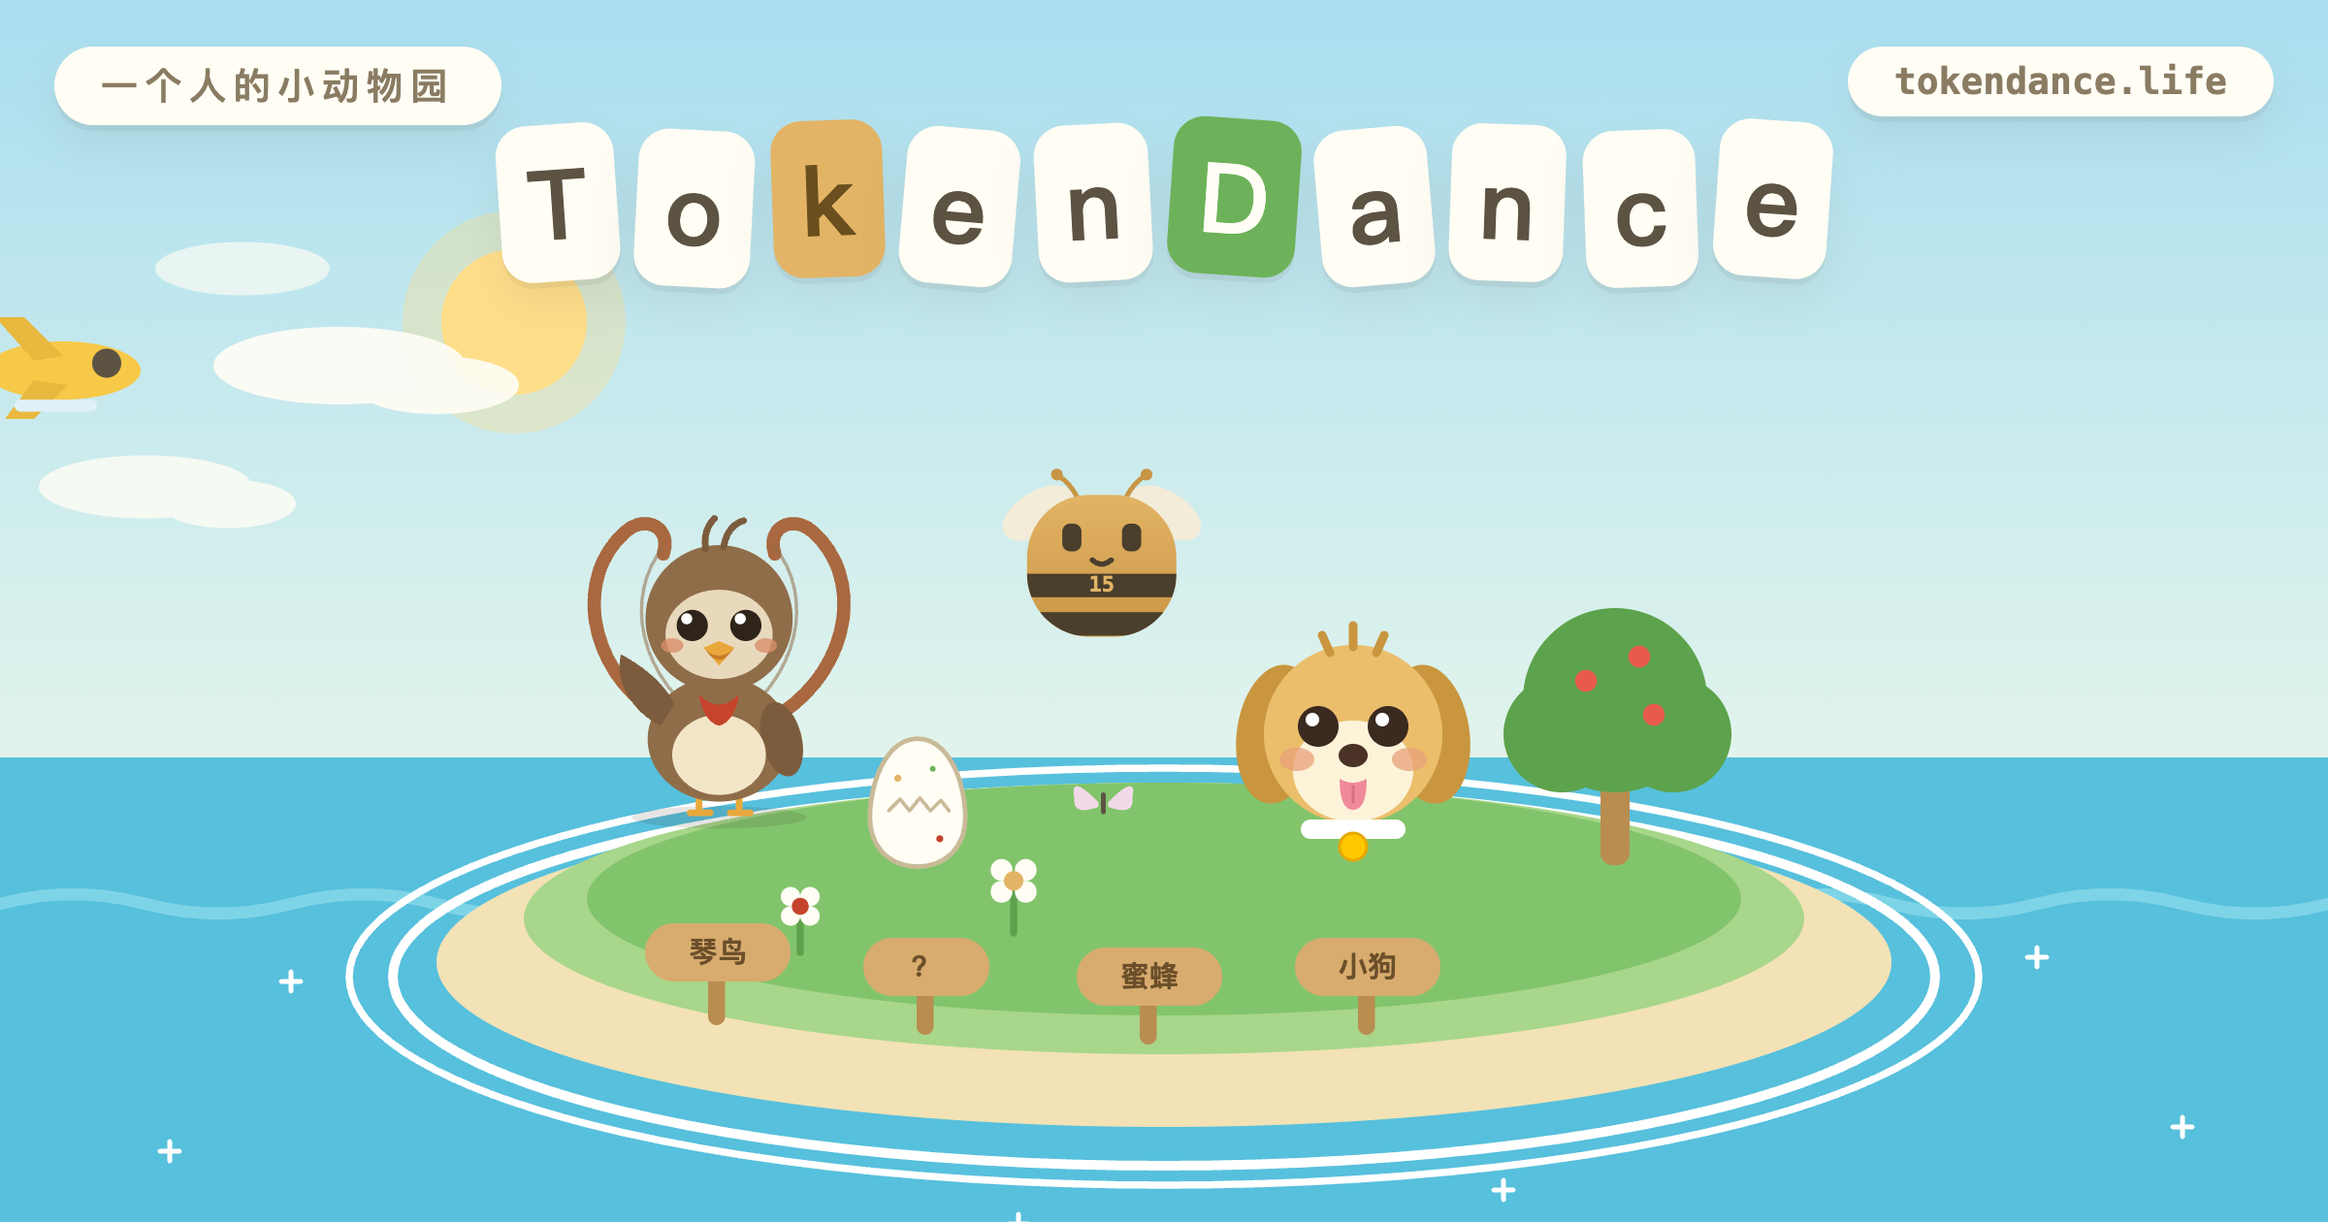
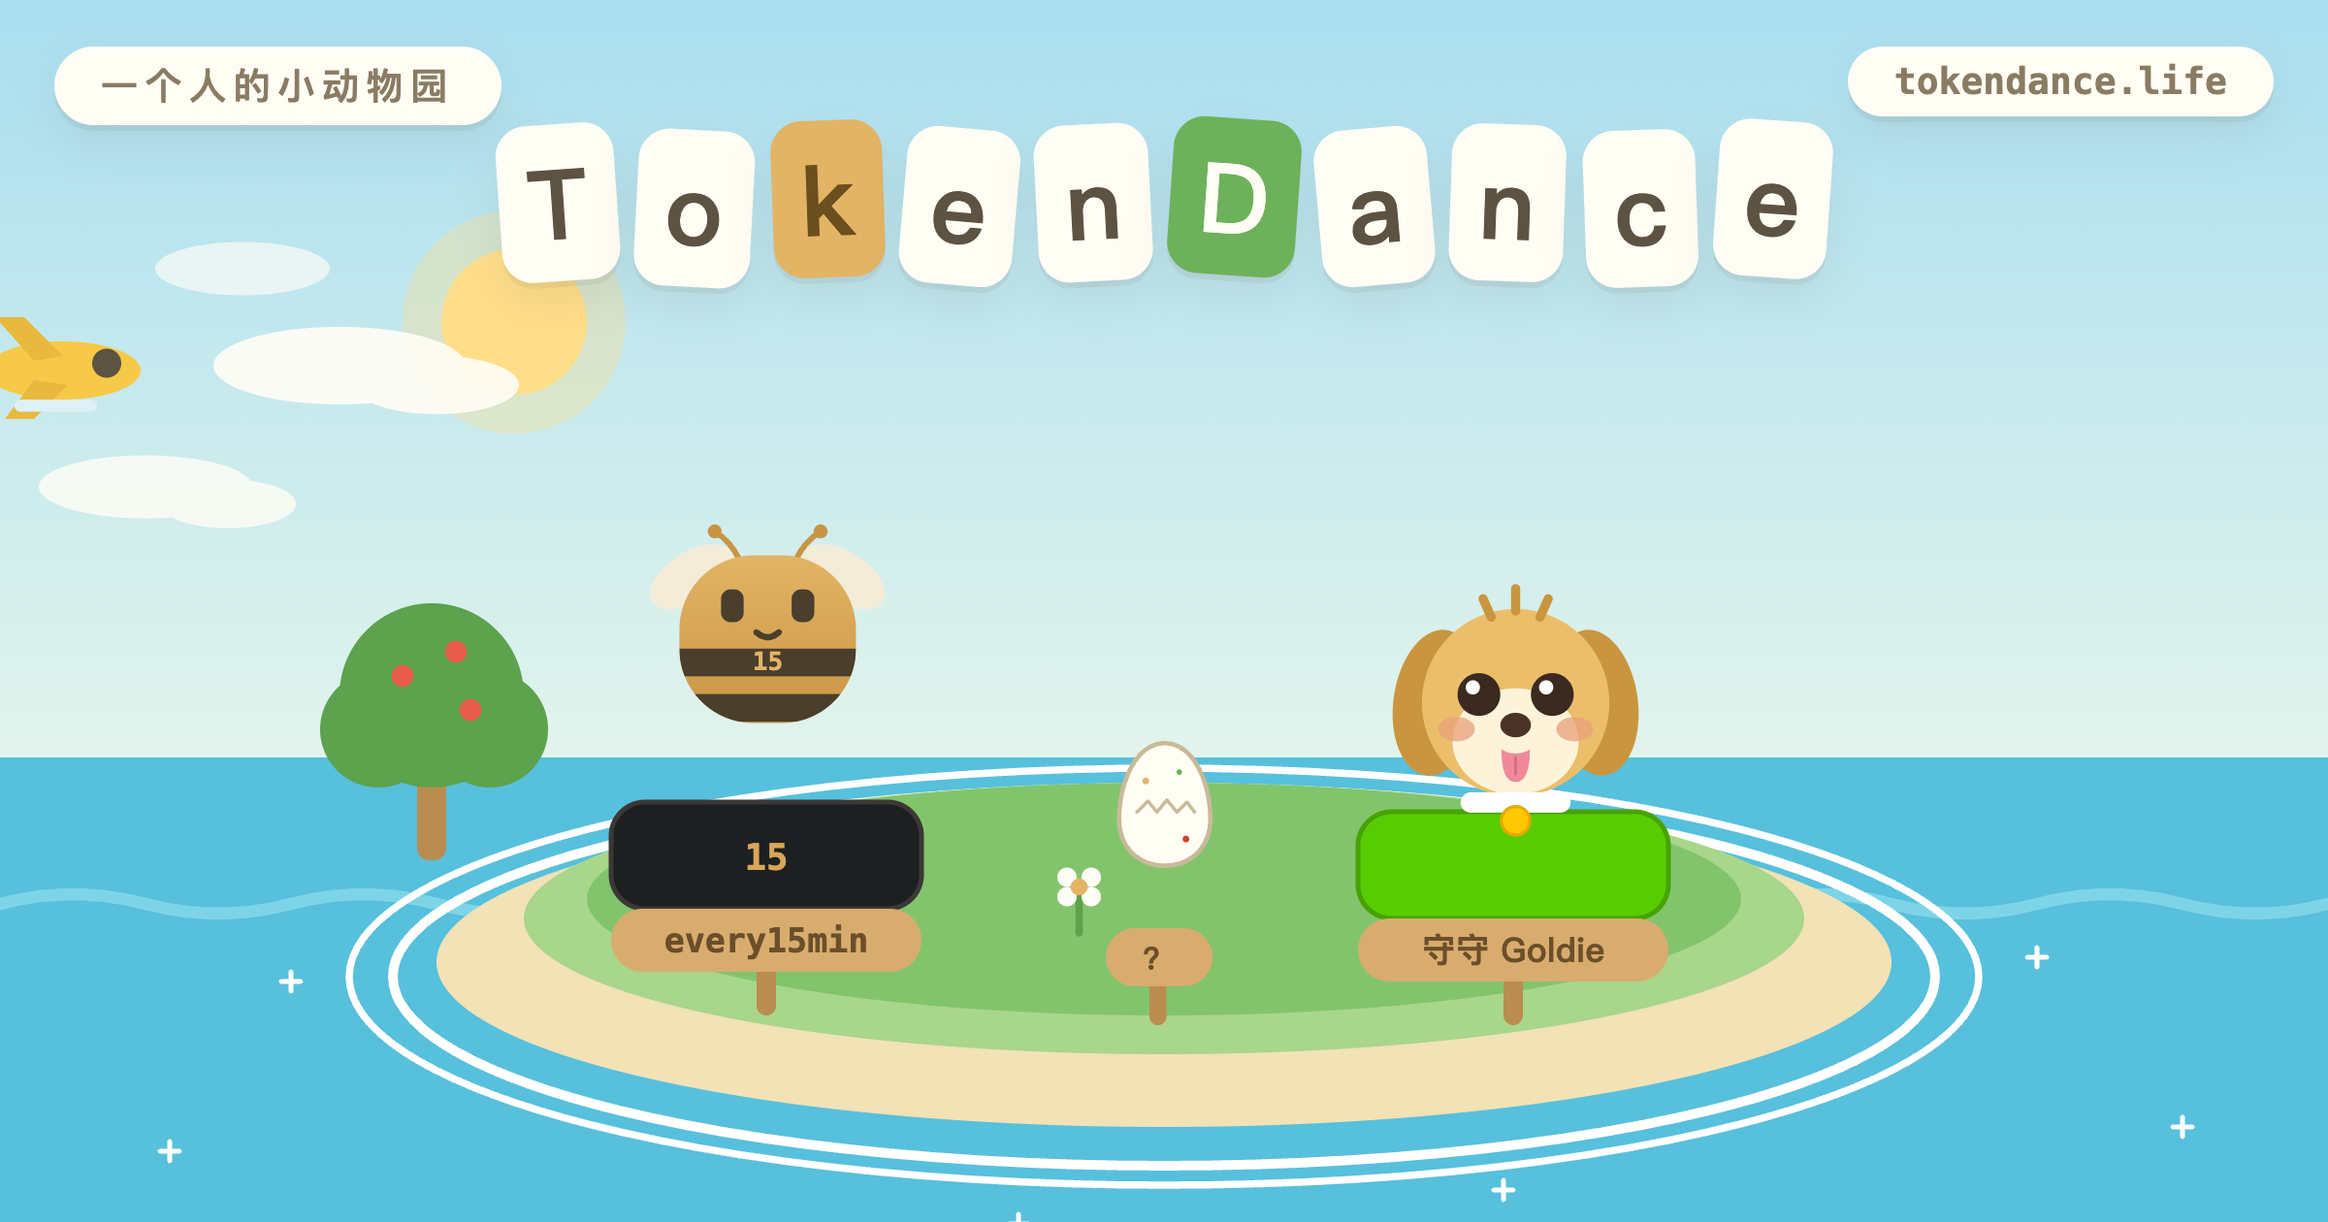
岛上住户与真实 App 图标对齐：图标同款地台 + App 名木牌，精简杂物；名册头像换图标样式

Changed region(s): [[0.125, 0.4024, 0.75, 0.8667], [0.4062, 0.3714, 0.5312, 0.5262]]

diff --git a/index.html b/index.html
@@ -156,7 +156,6 @@ svg{max-width:100%}
   .tokens{gap:5px}
   .tok{font-size:clamp(15px,4.4vw,21px);padding:3px 7px 1px;border-radius:9px}
 }
-@media (max-width:640px){.stakes{display:none}}
 
 /* ============ 环境动效（全部缓慢、有编排） ============ */
 @media (prefers-reduced-motion: no-preference){
@@ -258,6 +257,7 @@ h2 svg{flex:0 0 auto}
   width:58px;height:58px;border-radius:50%;overflow:hidden;flex:0 0 auto;
   display:flex;align-items:center;justify-content:center;
 }
+.p-face.tile{border-radius:16px}
 .p-face svg{width:100%;height:100%;display:block}
 .p-name{font-size:17px;font-weight:800}
 .p-name .latin{display:block;font-family:ui-monospace,Menlo,Consolas,monospace;font-size:12px;color:var(--brown-soft);font-weight:600;letter-spacing:.02em}
@@ -302,7 +302,7 @@ footer .leaf{display:inline-block;vertical-align:-3px;margin-right:6px}
   </h1>
 
   <svg class="vista" viewBox="0 0 960 540" preserveAspectRatio="xMidYMid slice"
-       role="img" aria-label="海中央的小岛：琴鸟、蛋、蜜蜂和小狗住在上面">
+       role="img" aria-label="海中央的小岛：蜜蜂、金毛和一颗蛋，各自守着自己的应用">
     <!-- 太阳 / 月亮 / 星星 -->
     <g class="sun">
       <circle cx="212" cy="132" r="46" fill="var(--sun)" opacity=".35"/>
@@ -353,12 +353,10 @@ footer .leaf{display:inline-block;vertical-align:-3px;margin-right:6px}
 
     <!-- 海 -->
     <rect x="0" y="336" width="960" height="204" fill="var(--ocean)"/>
-    <!-- 远处海浪 -->
     <g class="wave-a">
       <path d="M-240 372 Q-210 364 -180 372 T-120 372 T-60 372 T0 372 T60 372 T120 372 T180 372 T240 372 T300 372 T360 372 T420 372 T480 372 T540 372 T600 372 T660 372 T720 372 T780 372 T840 372 T900 372 T960 372 T1020 372 T1080 372 T1140 372"
             fill="none" stroke="var(--wave)" stroke-width="5" stroke-linecap="round" opacity=".7"/>
     </g>
-    <!-- 海面闪光 -->
     <g stroke="var(--foam)" stroke-width="2" stroke-linecap="round">
       <path class="twinkle" style="--d:0s"    d="M120 400 v8 M116 404 h8"/>
       <path class="twinkle" style="--d:1.1s"  d="M840 390 v8 M836 394 h8"/>
@@ -378,65 +376,53 @@ footer .leaf{display:inline-block;vertical-align:-3px;margin-right:6px}
       <ellipse cx="480" cy="378" rx="264" ry="56" fill="var(--grass-light)"/>
       <ellipse cx="480" cy="370" rx="238" ry="48" fill="var(--grass)"/>
 
-      <!-- 果树 -->
+      <!-- 果树（左侧） -->
       <g class="swayflower s2">
-        <rect x="660" y="318" width="12" height="38" rx="5" fill="#B98D4F"/>
-        <circle cx="666" cy="288" r="38" fill="#5DA24C"/>
-        <circle cx="644" cy="302" r="24" fill="#5DA24C"/>
-        <circle cx="690" cy="302" r="24" fill="#5DA24C"/>
-        <circle cx="654" cy="280" r="4.5" fill="#E85B4B"/>
-        <circle cx="676" cy="270" r="4.5" fill="#E85B4B"/>
-        <circle cx="682" cy="294" r="4.5" fill="#E85B4B"/>
+        <rect x="172" y="316" width="12" height="38" rx="5" fill="#B98D4F"/>
+        <circle cx="178" cy="286" r="38" fill="#5DA24C"/>
+        <circle cx="156" cy="300" r="24" fill="#5DA24C"/>
+        <circle cx="202" cy="300" r="24" fill="#5DA24C"/>
+        <circle cx="166" cy="278" r="4.5" fill="#E85B4B"/>
+        <circle cx="188" cy="268" r="4.5" fill="#E85B4B"/>
+        <circle cx="194" cy="292" r="4.5" fill="#E85B4B"/>
       </g>
 
-      <!-- 琴鸟 -->
-      <g transform="translate(222,190) scale(0.46)">
-        <g class="breathe">
-          <ellipse cx="162" cy="318" rx="78" ry="10" fill="#2E241A" opacity=".12"/>
-          <path d="M118 232 C44 192 30 104 78 62 C96 46 120 58 112 82" fill="none" stroke="#A9683F" stroke-width="12" stroke-linecap="round"/>
-          <path d="M206 232 C280 192 294 104 246 62 C228 46 204 58 212 82" fill="none" stroke="#A9683F" stroke-width="12" stroke-linecap="round"/>
-          <g fill="none" stroke="#8F6D49" stroke-width="3" stroke-linecap="round" opacity=".55">
-            <path d="M136 222 C84 176 82 112 112 76"/>
-            <path d="M150 216 C120 168 122 110 146 78"/>
-            <path d="M174 216 C204 168 202 110 178 78"/>
-            <path d="M188 222 C240 176 242 112 212 76"/>
+      <!-- every15min：蜜蜂 + 它的终端色地台（同 App 图标） -->
+      <rect x="252" y="330" width="128" height="44" rx="14" fill="#1d2021"/>
+      <rect x="252" y="330" width="128" height="44" rx="14" fill="none" stroke="#3c3836" stroke-width="2"/>
+      <text x="316" y="358" text-anchor="middle" font-size="15" font-weight="700"
+            font-family="Menlo,Consolas,monospace" fill="#d8a657">15</text>
+      <g class="bee-bob">
+        <g transform="translate(250,196) scale(0.26)">
+          <defs>
+            <linearGradient id="beeg" x1="0" y1="0" x2="0" y2="1">
+              <stop offset="0" stop-color="#e3b465"/>
+              <stop offset="1" stop-color="#c89544"/>
+            </linearGradient>
+            <clipPath id="beebody"><rect x="116" y="124" width="280" height="266" rx="118"/></clipPath>
+          </defs>
+          <ellipse cx="136" cy="158" rx="74" ry="40" fill="#F3ECD8" transform="rotate(-32 136 158)"/>
+          <ellipse cx="376" cy="158" rx="74" ry="40" fill="#F3ECD8" transform="rotate(32 376 158)"/>
+          <path d="M212 132 q-16 -32 -38 -44" fill="none" stroke="#c89544" stroke-width="9" stroke-linecap="round"/>
+          <circle cx="172" cy="86" r="11" fill="#c89544"/>
+          <path d="M300 132 q16 -32 38 -44" fill="none" stroke="#c89544" stroke-width="9" stroke-linecap="round"/>
+          <circle cx="340" cy="86" r="11" fill="#c89544"/>
+          <rect x="116" y="124" width="280" height="266" rx="118" fill="url(#beeg)"/>
+          <g clip-path="url(#beebody)">
+            <rect x="116" y="272" width="280" height="44" fill="#4A3E2C"/>
+            <rect x="116" y="344" width="280" height="44" fill="#4A3E2C"/>
           </g>
-          <path d="M144 296 L144 314 M136 314 L154 314" stroke="#E9A83B" stroke-width="6" stroke-linecap="round" fill="none"/>
-          <path d="M180 296 L180 314 M172 314 L190 314" stroke="#E9A83B" stroke-width="6" stroke-linecap="round" fill="none"/>
-          <ellipse cx="162" cy="248" rx="64" ry="56" fill="#8F6D49"/>
-          <ellipse cx="218" cy="248" rx="18" ry="34" fill="#7C5C3D" transform="rotate(-14 218 248)"/>
-          <path d="M110 236 C84 224 68 196 74 172 C90 180 112 196 122 216 Z" fill="#7C5C3D"/>
-          <ellipse cx="162" cy="262" rx="42" ry="36" fill="#F3E5C8"/>
-          <path d="M144 208 Q162 226 180 208 Q176 232 162 236 Q148 232 144 208 Z" fill="#C6432C"/>
-          <circle cx="162" cy="140" r="66" fill="#8F6D49"/>
-          <ellipse cx="162" cy="154" rx="48" ry="40" fill="#E9D9BC"/>
-          <path d="M150 78 C148 64 152 56 158 50" fill="none" stroke="#7C5C3D" stroke-width="6" stroke-linecap="round"/>
-          <path d="M166 76 C168 62 176 54 184 52" fill="none" stroke="#7C5C3D" stroke-width="6" stroke-linecap="round"/>
-          <circle cx="138" cy="146" r="14" fill="#2E241A"/>
-          <circle cx="186" cy="146" r="14" fill="#2E241A"/>
-          <circle cx="133" cy="140" r="5" fill="#FFF"/>
-          <circle cx="181" cy="140" r="5" fill="#FFF"/>
-          <ellipse cx="120" cy="164" rx="10" ry="6.5" fill="#D98E6B" opacity=".8"/>
-          <ellipse cx="204" cy="164" rx="10" ry="6.5" fill="#D98E6B" opacity=".8"/>
-          <path d="M148 166 L162 160 L176 166 L162 182 Z" fill="#E9A83B"/>
-          <path d="M150 168 Q162 178 174 168 Q162 186 150 168 Z" fill="#C97B28"/>
+          <rect x="182" y="178" width="36" height="52" rx="15" fill="#4A3E2C"/>
+          <rect x="294" y="178" width="36" height="52" rx="15" fill="#4A3E2C"/>
+          <path d="M238 246 q18 16 36 0" fill="none" stroke="#4A3E2C" stroke-width="10" stroke-linecap="round"/>
+          <text x="256" y="306" font-family="Menlo,Consolas,monospace" font-size="40" font-weight="700" text-anchor="middle" fill="#e3b465">15</text>
         </g>
       </g>
 
-      <!-- 蛋 -->
-      <g transform="translate(352,300) scale(0.48)">
-        <g class="egg-rock">
-          <path d="M55 8 C28 8 14 46 14 76 C14 102 32 118 55 118 C78 118 96 102 96 76 C96 46 82 8 55 8 Z"
-                fill="#FFFDF4" stroke="#C9BA98" stroke-width="4"/>
-          <path d="M30 70 L40 60 L48 70 L57 59 L66 70 L75 61 L82 70" fill="none" stroke="#C9BA98" stroke-width="3" stroke-linecap="round" stroke-linejoin="round"/>
-          <circle cx="38" cy="42" r="3" fill="#E3B465"/>
-          <circle cx="68" cy="34" r="2.5" fill="#6DB25A"/>
-          <circle cx="74" cy="94" r="3" fill="#C6432C"/>
-        </g>
-      </g>
-
-      <!-- 小狗 -->
-      <g transform="translate(498,242) scale(0.4)">
+      <!-- 守守 Goldie：金毛 + 它的绿色地台（同 App 图标） -->
+      <rect x="560" y="334" width="128" height="44" rx="14" fill="#58CC02"/>
+      <rect x="560" y="334" width="128" height="44" rx="14" fill="none" stroke="#46A302" stroke-width="2"/>
+      <g transform="translate(562,226) scale(0.42)">
         <g class="breathe b2">
           <ellipse cx="72" cy="150" rx="42" ry="72" fill="#C9963F" transform="rotate(8 72 150)"/>
           <ellipse cx="228" cy="150" rx="42" ry="72" fill="#C9963F" transform="rotate(-8 228 150)"/>
@@ -459,74 +445,40 @@ footer .leaf{display:inline-block;vertical-align:-3px;margin-right:6px}
         </g>
       </g>
 
+      <!-- 蛋（孵着呢） -->
+      <g transform="translate(455,302) scale(0.46)">
+        <g class="egg-rock">
+          <path d="M55 8 C28 8 14 46 14 76 C14 102 32 118 55 118 C78 118 96 102 96 76 C96 46 82 8 55 8 Z"
+                fill="#FFFDF4" stroke="#C9BA98" stroke-width="4"/>
+          <path d="M30 70 L40 60 L48 70 L57 59 L66 70 L75 61 L82 70" fill="none" stroke="#C9BA98" stroke-width="3" stroke-linecap="round" stroke-linejoin="round"/>
+          <circle cx="38" cy="42" r="3" fill="#E3B465"/>
+          <circle cx="68" cy="34" r="2.5" fill="#6DB25A"/>
+          <circle cx="74" cy="94" r="3" fill="#C6432C"/>
+        </g>
+      </g>
+
       <!-- 花 -->
       <g class="swayflower">
-        <line x1="418" y1="384" x2="418" y2="364" stroke="#5FA04B" stroke-width="3" stroke-linecap="round"/>
-        <circle cx="413" cy="358" r="4.5" fill="#FFFDF4"/><circle cx="423" cy="358" r="4.5" fill="#FFFDF4"/>
-        <circle cx="413" cy="367" r="4.5" fill="#FFFDF4"/><circle cx="423" cy="367" r="4.5" fill="#FFFDF4"/>
-        <circle cx="418" cy="362.5" r="4" fill="#E3B465"/>
-      </g>
-      <g class="swayflower s2">
-        <line x1="330" y1="392" x2="330" y2="374" stroke="#5FA04B" stroke-width="3" stroke-linecap="round"/>
-        <circle cx="326" cy="369" r="4" fill="#FFFDF4"/><circle cx="334" cy="369" r="4" fill="#FFFDF4"/>
-        <circle cx="326" cy="377" r="4" fill="#FFFDF4"/><circle cx="334" cy="377" r="4" fill="#FFFDF4"/>
-        <circle cx="330" cy="373" r="3.5" fill="#C6432C"/>
+        <line x1="445" y1="384" x2="445" y2="366" stroke="#5FA04B" stroke-width="3" stroke-linecap="round"/>
+        <circle cx="440" cy="361" r="4" fill="#FFFDF4"/><circle cx="450" cy="361" r="4" fill="#FFFDF4"/>
+        <circle cx="440" cy="369" r="4" fill="#FFFDF4"/><circle cx="450" cy="369" r="4" fill="#FFFDF4"/>
+        <circle cx="445" cy="365" r="3.5" fill="#E3B465"/>
       </g>
 
-      <!-- 名字木牌 -->
-      <g class="stakes" font-size="12" font-weight="800" fill="#6B4F2A" text-anchor="middle"
+      <!-- 名字木牌：直接写 App 名 -->
+      <g class="stakes" font-weight="800" fill="#6B4F2A" text-anchor="middle"
          font-family="ui-rounded,-apple-system,'PingFang SC',sans-serif">
-        <rect x="292" y="398" width="7" height="24" rx="3.5" fill="#B98D4F"/>
-        <rect x="266" y="380" width="60" height="24" rx="12" fill="#D8AC6E"/>
-        <text x="296" y="396">琴鸟</text>
-        <rect x="378" y="404" width="7" height="22" rx="3.5" fill="#B98D4F"/>
-        <rect x="356" y="386" width="52" height="24" rx="12" fill="#D8AC6E"/>
-        <text x="382" y="402">？</text>
-        <rect x="470" y="408" width="7" height="22" rx="3.5" fill="#B98D4F"/>
-        <rect x="444" y="390" width="60" height="24" rx="12" fill="#D8AC6E"/>
-        <text x="474" y="406">蜜蜂</text>
-        <rect x="560" y="404" width="7" height="22" rx="3.5" fill="#B98D4F"/>
-        <rect x="534" y="386" width="60" height="24" rx="12" fill="#D8AC6E"/>
-        <text x="564" y="402">金毛</text>
-      </g>
-
-      <!-- 蝴蝶 -->
-      <g class="flutter">
-        <g transform="translate(455,330)">
-          <path class="flap fl" d="M-2 0 Q-14 -12 -12 -2 Q-13 6 -2 2 Z" fill="#F2D9E8"/>
-          <path class="flap fr" d="M2 0 Q14 -12 12 -2 Q13 6 2 2 Z" fill="#F2D9E8"/>
-          <line x1="0" y1="-3" x2="0" y2="4" stroke="#5D5343" stroke-width="2" stroke-linecap="round"/>
-        </g>
+        <rect x="312" y="392" width="8" height="26" rx="4" fill="#B98D4F"/>
+        <rect x="252" y="374" width="128" height="26" rx="13" fill="#D8AC6E"/>
+        <text x="316" y="392" font-size="14" font-family="Menlo,Consolas,monospace">every15min</text>
+        <rect x="620" y="396" width="8" height="26" rx="4" fill="#B98D4F"/>
+        <rect x="560" y="378" width="128" height="26" rx="13" fill="#D8AC6E"/>
+        <text x="624" y="396" font-size="14">守守 Goldie</text>
+        <rect x="474" y="400" width="7" height="22" rx="3.5" fill="#B98D4F"/>
+        <rect x="456" y="382" width="44" height="24" rx="12" fill="#D8AC6E"/>
+        <text x="478" y="399" font-size="13">？</text>
       </g>
     </g>
-
-    <!-- 蜜蜂在岛上空巡逻 -->
-    <g class="bee-sway"><g class="bee-bob">
-      <g transform="translate(398,176) scale(0.22)">
-        <defs>
-          <linearGradient id="beeg" x1="0" y1="0" x2="0" y2="1">
-            <stop offset="0" stop-color="#e3b465"/>
-            <stop offset="1" stop-color="#c89544"/>
-          </linearGradient>
-          <clipPath id="beebody"><rect x="116" y="124" width="280" height="266" rx="118"/></clipPath>
-        </defs>
-        <ellipse cx="136" cy="158" rx="74" ry="40" fill="#F3ECD8" transform="rotate(-32 136 158)"/>
-        <ellipse cx="376" cy="158" rx="74" ry="40" fill="#F3ECD8" transform="rotate(32 376 158)"/>
-        <path d="M212 132 q-16 -32 -38 -44" fill="none" stroke="#c89544" stroke-width="9" stroke-linecap="round"/>
-        <circle cx="172" cy="86" r="11" fill="#c89544"/>
-        <path d="M300 132 q16 -32 38 -44" fill="none" stroke="#c89544" stroke-width="9" stroke-linecap="round"/>
-        <circle cx="340" cy="86" r="11" fill="#c89544"/>
-        <rect x="116" y="124" width="280" height="266" rx="118" fill="url(#beeg)"/>
-        <g clip-path="url(#beebody)">
-          <rect x="116" y="272" width="280" height="44" fill="#4A3E2C"/>
-          <rect x="116" y="344" width="280" height="44" fill="#4A3E2C"/>
-        </g>
-        <rect x="182" y="178" width="36" height="52" rx="15" fill="#4A3E2C"/>
-        <rect x="294" y="178" width="36" height="52" rx="15" fill="#4A3E2C"/>
-        <path d="M238 246 q18 16 36 0" fill="none" stroke="#4A3E2C" stroke-width="10" stroke-linecap="round"/>
-        <text x="256" y="306" font-family="Menlo,Consolas,monospace" font-size="40" font-weight="700" text-anchor="middle" fill="#e3b465">15</text>
-      </g>
-    </g></g>
 
     <!-- 岸线过渡到纸面 -->
     <path d="M0 512 Q120 500 240 512 T480 512 T720 512 T960 512 V540 H0 Z" fill="#FBF4E1"/>
@@ -589,7 +541,7 @@ footer .leaf{display:inline-block;vertical-align:-3px;margin-right:6px}
 
     <div class="plaque">
       <div class="p-head">
-        <span class="p-face" style="background:#F6E3B8">
+        <span class="p-face tile" style="background:#1d2021">
           <svg viewBox="106 60 300 300" aria-hidden="true">
             <ellipse cx="136" cy="158" rx="74" ry="40" fill="#EFE7D3" transform="rotate(-32 136 158)"/>
             <ellipse cx="376" cy="158" rx="74" ry="40" fill="#EFE7D3" transform="rotate(32 376 158)"/>
@@ -601,6 +553,7 @@ footer .leaf{display:inline-block;vertical-align:-3px;margin-right:6px}
             <rect x="182" y="178" width="36" height="52" rx="15" fill="#4A3E2C"/>
             <rect x="294" y="178" width="36" height="52" rx="15" fill="#4A3E2C"/>
             <path d="M238 246 q18 16 36 0" fill="none" stroke="#4A3E2C" stroke-width="10" stroke-linecap="round"/>
+            <text x="256" y="306" font-family="Menlo,Consolas,monospace" font-size="40" font-weight="700" text-anchor="middle" fill="#e3b465">15</text>
           </svg>
         </span>
         <div class="p-name">蜜蜂<span class="latin">every15min</span></div>
@@ -616,7 +569,7 @@ footer .leaf{display:inline-block;vertical-align:-3px;margin-right:6px}
 
     <div class="plaque">
       <div class="p-head">
-        <span class="p-face" style="background:#DFF0C8">
+        <span class="p-face tile" style="background:#58CC02">
           <svg viewBox="30 30 240 240" aria-hidden="true">
             <ellipse cx="72" cy="150" rx="42" ry="72" fill="#C9963F" transform="rotate(8 72 150)"/>
             <ellipse cx="228" cy="150" rx="42" ry="72" fill="#C9963F" transform="rotate(-8 228 150)"/>
